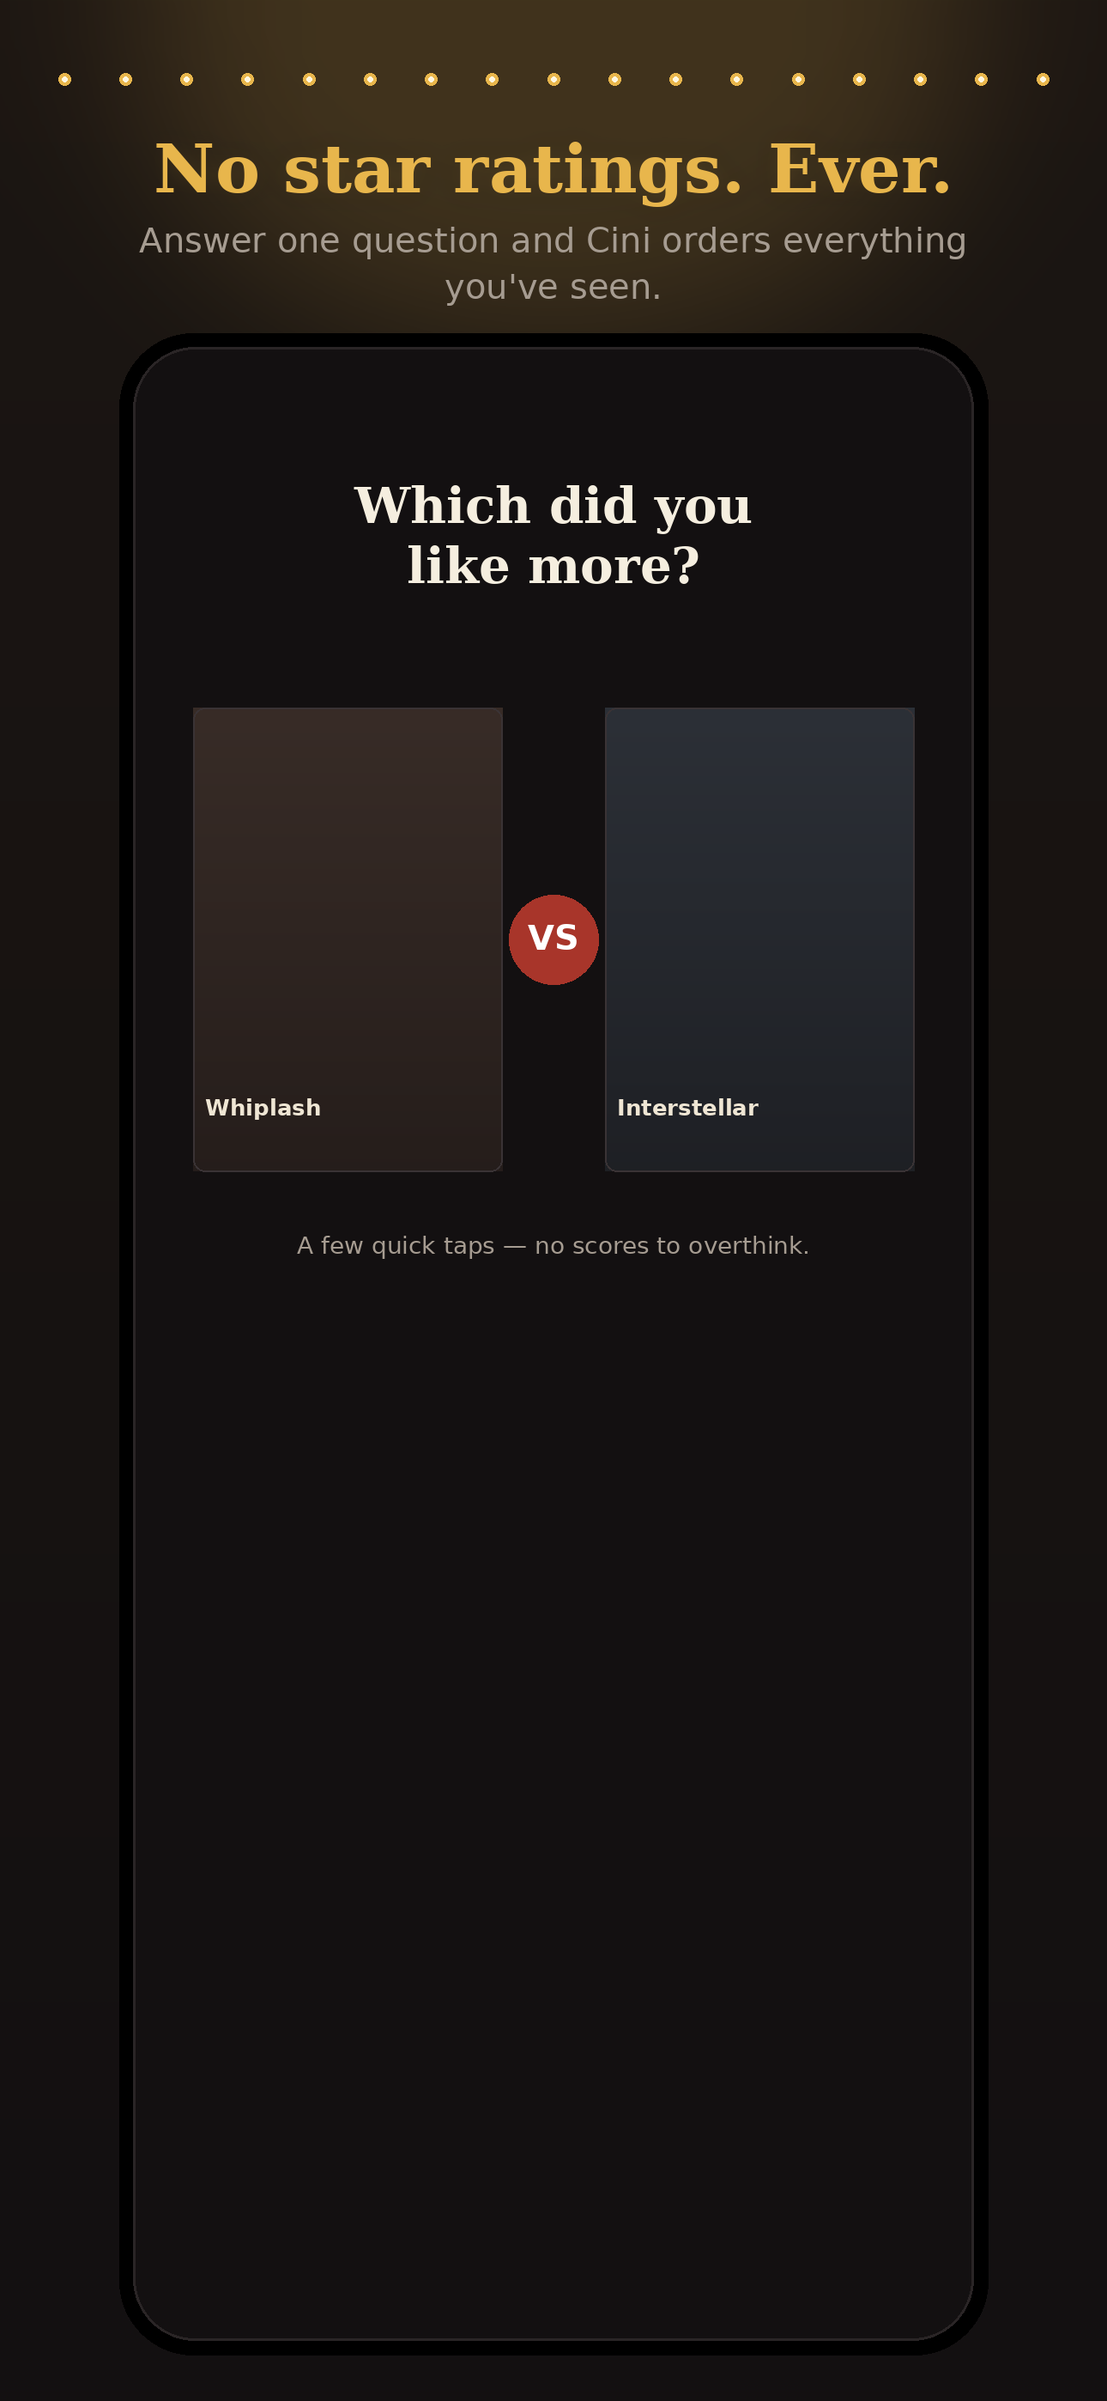
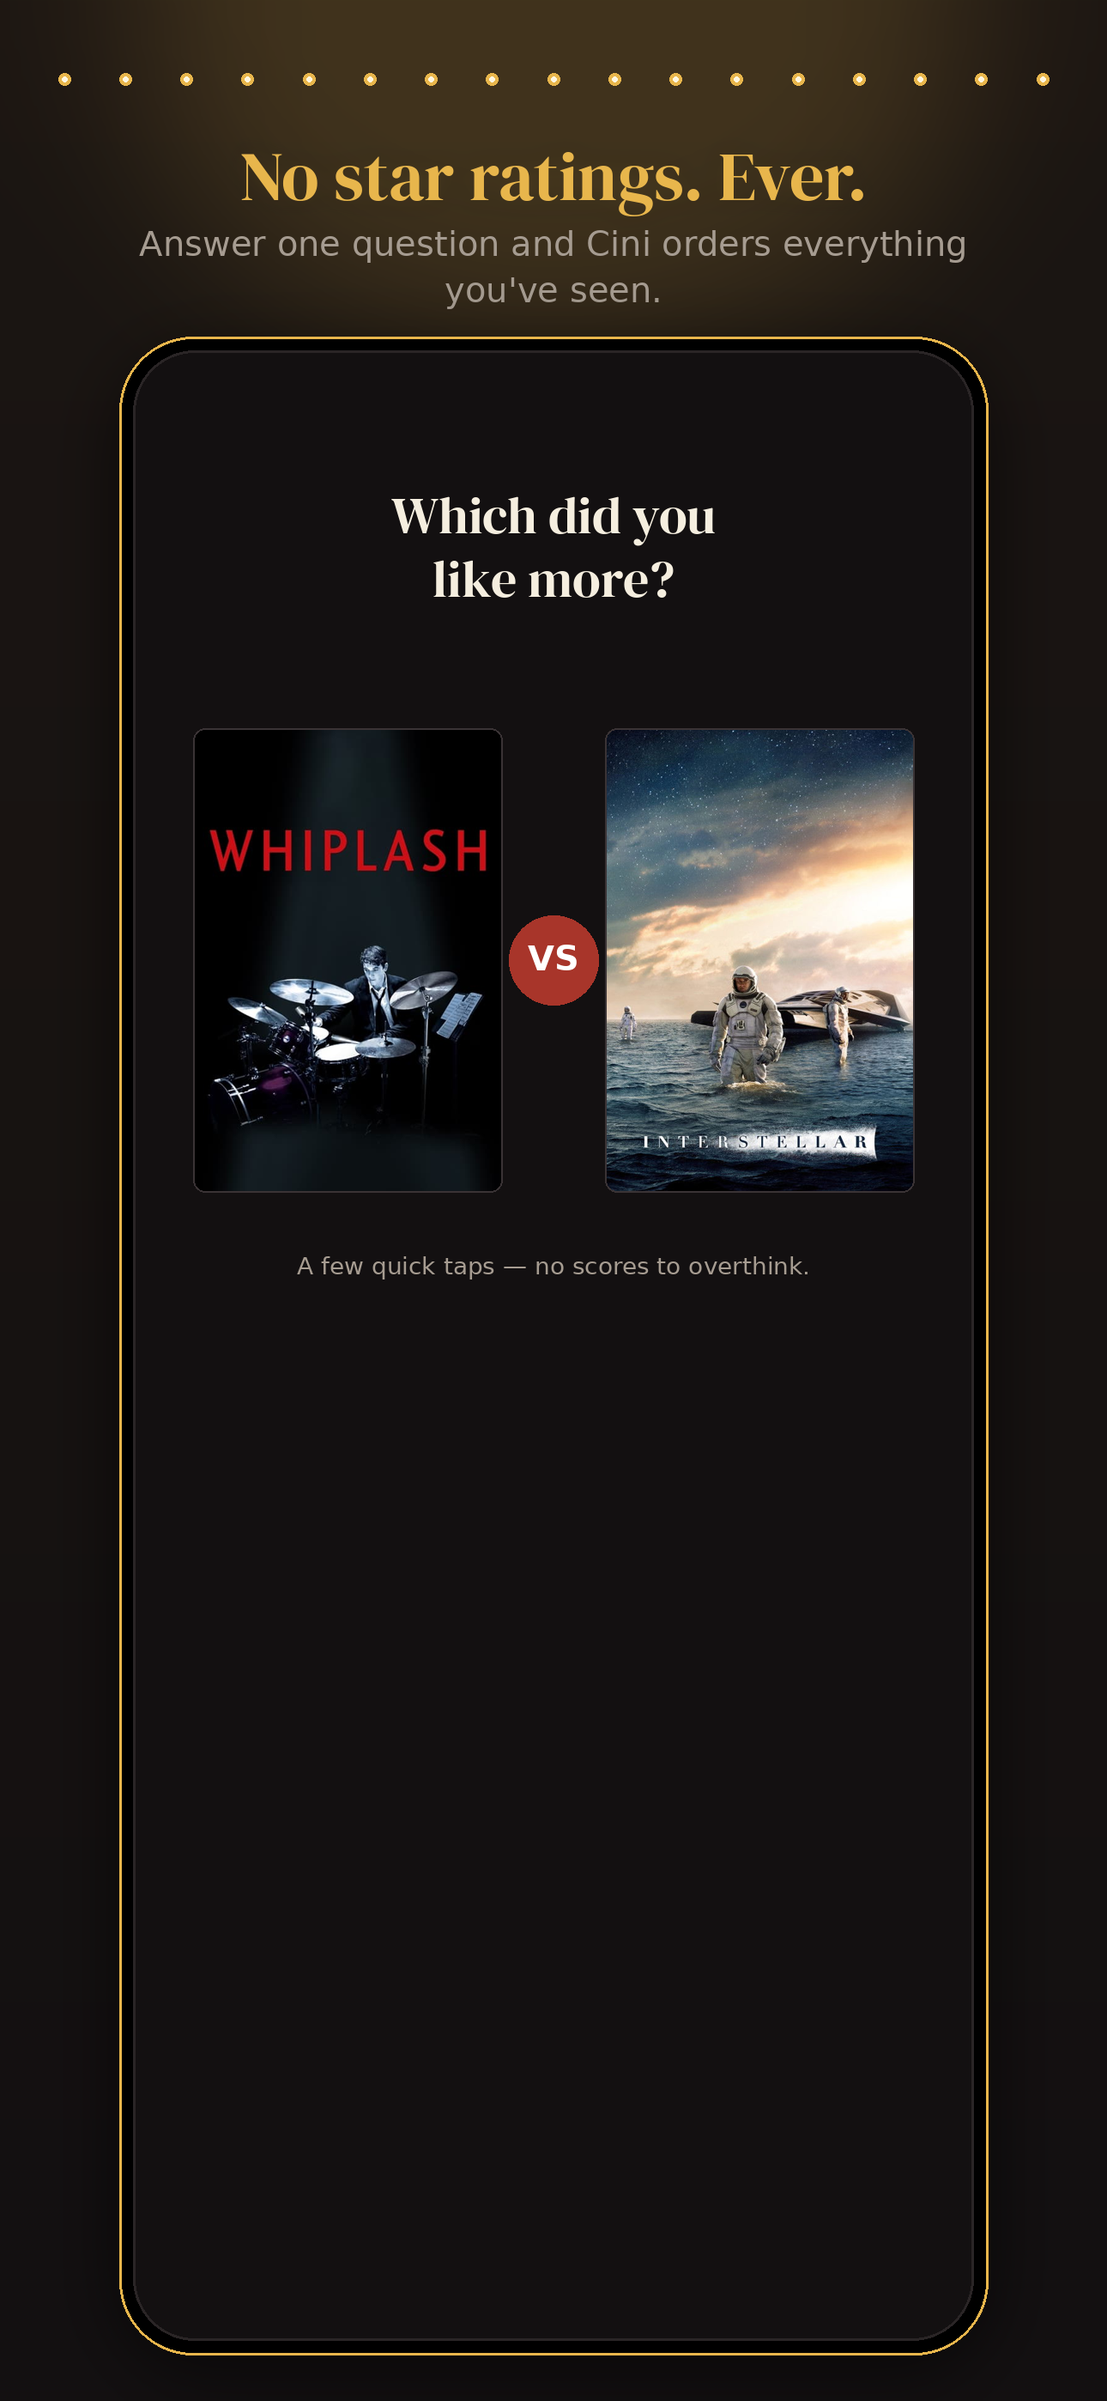
App Store screenshots with real posters/fonts; rank-result + marketing polish
- App Store screenshots: real TMDB posters + the actual brand faces (Limelight
  wordmark, DM Serif Display headlines), marquee styling, phone drop shadow.
- Rank-result ticket: center the card so the Share/Done buttons no longer
  collide with the tab bar; Done is now an outlined secondary (not a second
  filled button).
- Marketing site hero: real movie posters instead of gradient blanks.

diff --git a/index.html b/index.html
@@ -62,9 +62,9 @@
         <div class="compare">
           <p class="compare-q">Which did you like more?</p>
           <div class="compare-row">
-            <div class="poster" style="--p1:#1F6F6B;--p2:#0E2A3A;"><span>Whiplash</span></div>
+            <div class="poster" style="background-image:url('https://image.tmdb.org/t/p/w342/7fn624j5lj3xTme2SgiLCeuedmO.jpg');background-size:cover;background-position:center;"></div>
             <div class="vs">vs</div>
-            <div class="poster" style="--p1:#A8352A;--p2:#E8B64C;"><span>Interstellar</span></div>
+            <div class="poster" style="background-image:url('https://image.tmdb.org/t/p/w342/yQvGrMoipbRoddT0ZR8tPoR7NfX.jpg');background-size:cover;background-position:center;"></div>
           </div>
         </div>
 
@@ -72,19 +72,19 @@
         <div class="rank-list">
           <div class="rank-row">
             <span class="rk">1</span>
-            <div class="mini" style="--p1:#3A2A5A;--p2:#A8352A;"></div>
+            <div class="mini" style="background-image:url('https://image.tmdb.org/t/p/w185/7IiTTgloJzvGI1TAYymCfbfl3vT.jpg');background-size:cover;background-position:center;"></div>
             <div class="rt"><b>Parasite</b><i>2019 · Thriller</i></div>
             <span class="badge hi">9.4</span>
           </div>
           <div class="rank-row">
             <span class="rk">2</span>
-            <div class="mini" style="--p1:#1F6F6B;--p2:#0E2A3A;"></div>
+            <div class="mini" style="background-image:url('https://image.tmdb.org/t/p/w185/7fn624j5lj3xTme2SgiLCeuedmO.jpg');background-size:cover;background-position:center;"></div>
             <div class="rt"><b>Whiplash</b><i>2014 · Drama</i></div>
             <span class="badge hi">8.8</span>
           </div>
           <div class="rank-row">
             <span class="rk">3</span>
-            <div class="mini" style="--p1:#A8352A;--p2:#E8B64C;"></div>
+            <div class="mini" style="background-image:url('https://image.tmdb.org/t/p/w185/yQvGrMoipbRoddT0ZR8tPoR7NfX.jpg');background-size:cover;background-position:center;"></div>
             <div class="rt"><b>Interstellar</b><i>2014 · Sci-Fi</i></div>
             <span class="badge mid">7.1</span>
           </div>

diff --git a/Cini/Features/LogFlow/LogFlowView.swift b/Cini/Features/LogFlow/LogFlowView.swift
@@ -117,7 +117,9 @@ struct LogFlowView: View {
                     withAnimation(.snappy) {
                         if newPhase == .enrich { proxy.scrollTo("enrich", anchor: .bottom) }
                         if newPhase == .comparing { proxy.scrollTo("compare", anchor: .bottom) }
-                        if newPhase == .result { proxy.scrollTo("result", anchor: .bottom) }
+                        // Center it — anchoring .bottom shoved the Share/Done
+                        // buttons down onto the (still-visible) tab bar.
+                        if newPhase == .result { proxy.scrollTo("result", anchor: .center) }
                     }
                 }
             }
@@ -560,9 +562,12 @@ struct LogFlowView: View {
                         }
                         .buttonStyle(.plain)
                     }
-                    PillButton(title: "Done") { dismiss() }
+                    // Outlined so it's a clear secondary to the gold Share —
+                    // not two competing filled buttons.
+                    PillButton(title: "Done", style: .outlined) { dismiss() }
                 }
                 .frame(maxWidth: .infinity)
+                .padding(.bottom, 24)
                 .transition(.opacity)
             }
         }

diff --git a/docs/appstore/generate.py b/docs/appstore/generate.py
@@ -1,21 +1,61 @@
 #!/usr/bin/env python3
 """Branded App Store screenshots (6.7" = 1290x2796) matching Cini's marquee
-icon: glowing marquee-gold on house-lights-down black, marquee-bulb trim,
-serif wordmark. Marketing frames = headline + on-brand phone mockup."""
+icon: glowing marquee-gold on house-lights-down black, marquee-bulb trim, the
+REAL brand faces (Limelight wordmark + DM Serif Display headlines), and REAL
+movie posters fetched from TMDB. Marketing frames = headline + phone mockup."""
 from PIL import Image, ImageDraw, ImageFont, ImageFilter
+import os, json, urllib.request, urllib.parse
 
 W, H = 1290, 2796
 BG="#131011"; BG2="#1b1614"; SURF="#1D1719"; SURF2="#281F20"; FILL="#2a2526"
 INK="#F5EEDF"; GRAY="#A69C91"; MARQUEE="#E8B64C"; VELVET="#A8352A"; GOLD="#D9A93C"
 GREEN="#2FBF71"; LOVE="#53B17C"; FINE="#F4C95C"; DIS="#EE9E9E"
-SERIF="/usr/share/fonts/truetype/dejavu/DejaVuSerif-Bold.ttf"
-SANS="/usr/share/fonts/truetype/dejavu/DejaVuSans.ttf"
-SANSB="/usr/share/fonts/truetype/dejavu/DejaVuSans-Bold.ttf"
+
+ROOT = os.path.join(os.path.dirname(__file__), "..", "..")
+RES = os.path.join(ROOT, "Cini", "Resources")
+DISPLAY = os.path.join(RES, "Limelight-Regular.ttf")        # marquee wordmark
+SERIF   = os.path.join(RES, "DMSerifDisplay-Regular.ttf")   # editorial headlines
+SANS  = "/usr/share/fonts/truetype/dejavu/DejaVuSans.ttf"
+SANSB = "/usr/share/fonts/truetype/dejavu/DejaVuSans-Bold.ttf"
+def disp(p): return ImageFont.truetype(DISPLAY, p)
 def sf(p): return ImageFont.truetype(SERIF, p)
 def sa(p): return ImageFont.truetype(SANS, p)
 def sb(p): return ImageFont.truetype(SANSB, p)
 
-def ctext(d, cx, y, t, f, fill, glow=None):
+OUT = os.path.join(ROOT, "docs", "appstore")
+
+# ---- Real posters from TMDB (the app's own image source) -------------------
+def _tmdb_key():
+    with open(os.path.join(RES, "Secrets.xcconfig")) as f:
+        for line in f:
+            if line.strip().startswith("TMDB_API_KEY"):
+                return line.split("=", 1)[1].strip()
+    return ""
+KEY = _tmdb_key()
+CACHE = "/tmp/cini_posters"; os.makedirs(CACHE, exist_ok=True)
+_pc = {}
+def poster_img(query, year=None):
+    if query in _pc: return _pc[query]
+    try:
+        u = f"https://api.themoviedb.org/3/search/movie?api_key={KEY}&query={urllib.parse.quote(query)}"
+        if year: u += f"&year={year}"
+        data = json.load(urllib.request.urlopen(u, timeout=25))
+        path = (data.get("results") or [{}])[0].get("poster_path")
+        if not path: _pc[query] = None; return None
+        fp = os.path.join(CACHE, path.lstrip("/"))
+        if not os.path.exists(fp):
+            urllib.request.urlretrieve(f"https://image.tmdb.org/t/p/w500{path}", fp)
+        im = Image.open(fp).convert("RGB"); _pc[query] = im; return im
+    except Exception as e:
+        print("  poster miss:", query, e); _pc[query] = None; return None
+
+def ctext(d, cx, y, t, f, fill, glow=None, track=0):
+    if track:
+        total = sum(d.textlength(ch, font=f) + track for ch in t) - track
+        x = cx - total/2
+        for ch in t:
+            d.text((x, y), ch, font=f, fill=fill); x += d.textlength(ch, font=f) + track
+        return f.size
     w = d.textlength(t, font=f)
     if glow:
         gl = Image.new("RGBA", (int(w)+120, f.size+120), (0,0,0,0))
@@ -37,12 +77,10 @@ def wrap(d, t, f, maxw):
 def bg():
     img = Image.new("RGB",(W,H),BG)
     d = ImageDraw.Draw(img)
-    # warm vertical wash
     for y in range(H):
         t=y/H
         r=int(0x13+ (0x24-0x13)*(1-t)*0.5); g=int(0x10+(0x1c-0x10)*(1-t)*0.5); b=int(0x11+(0x14-0x11)*(1-t)*0.5)
         d.line([(0,y),(W,y)], fill=(r,g,b))
-    # top radial marquee glow
     glow = Image.new("RGBA",(W,H),(0,0,0,0))
     gd=ImageDraw.Draw(glow)
     gd.ellipse([W/2-560, -380, W/2+560, 480], fill=(232,182,76,46))
@@ -60,22 +98,26 @@ def bulbs(d, y, n=17):
 def caption(d, headline, sub, hl_color=MARQUEE):
     y=150
     bulbs(d, 92)
-    for ln in wrap(d, headline, sf(78), W-150):
-        ctext(d, W/2, y, ln, sf(78), hl_color, glow=(232,182,76,70)); y+=92
-    y+=14
+    for ln in wrap(d, headline, sf(80), W-150):
+        ctext(d, W/2, y, ln, sf(80), hl_color, glow=(232,182,76,70)); y+=94
+    y+=16
     for ln in wrap(d, sub, sa(40), W-220):
         ctext(d, W/2, y, ln, sa(40), GRAY); y+=54
     return y
 
+SCREEN = None  # set by phone(); poster() pastes onto this
 def phone(top, draw_screen):
-    """Rounded phone with bezel; draw_screen(d, x0,y0,w,h) paints the screen."""
+    global SCREEN
     pw, ph = 980, 2796-top-70
     x0=(W-pw)//2; y0=top
+    sh=Image.new("RGBA",(W,H),(0,0,0,0))
+    ImageDraw.Draw(sh).rounded_rectangle([x0-16,y0+10,x0+pw+16,y0+ph+30], radius=92, fill=(0,0,0,150))
+    sh=sh.filter(ImageFilter.GaussianBlur(40))
+    BASE.paste(Image.alpha_composite(BASE.convert("RGBA"),sh).convert("RGB"),(0,0))
     d=ImageDraw.Draw(BASE)
-    # bezel
     d.rounded_rectangle([x0-16,y0-16,x0+pw+16,y0+ph+16], radius=86, fill="#000000")
-    # screen
-    screen=Image.new("RGB",(pw,ph),BG)
+    d.rounded_rectangle([x0-16,y0-16,x0+pw+16,y0+ph+16], radius=86, outline=MARQUEE, width=3)
+    screen=Image.new("RGB",(pw,ph),BG); SCREEN=screen
     sd=ImageDraw.Draw(screen)
     draw_screen(sd, pw, ph)
     mask=Image.new("L",(pw,ph),0)
@@ -89,7 +131,20 @@ def score_badge(d, cx, cy, val, r=44, color=None):
     f=sb(int(r*0.8)); t=f"{val:.1f}"; w=d.textlength(t,font=f)
     d.text((cx-w/2, cy-r*0.55), t, font=f, fill=color)
 
-def poster(d, x, y, w, h, title, tone=0):
+def poster(d, x, y, w, h, title="", tone=0, query=None, year=None):
+    """Real TMDB poster (cover-fit + rounded), or a tasteful gradient fallback."""
+    im = poster_img(query or title, year) if (query or title) else None
+    if im is not None and SCREEN is not None:
+        sr = im.width/im.height; dr = w/h
+        if sr > dr: nh=h; nw=int(h*sr)
+        else: nw=w; nh=int(w/sr)
+        im2 = im.resize((max(nw,1), max(nh,1)))
+        l=(nw-w)//2; t=(nh-h)//2
+        im2 = im2.crop((l,t,l+w,t+h))
+        mask=Image.new("L",(w,h),0); ImageDraw.Draw(mask).rounded_rectangle([0,0,w-1,h-1],radius=14,fill=255)
+        SCREEN.paste(im2,(x,y),mask)
+        d.rounded_rectangle([x,y,x+w,y+h], radius=14, outline="#3a3335", width=2)
+        return
     cols=[(40,30,34),(34,40,46),(46,36,30),(30,42,38),(44,40,30),(38,32,44)]
     c=cols[tone%len(cols)]
     for i in range(h):
@@ -101,97 +156,89 @@ def poster(d, x, y, w, h, title, tone=0):
 
 SHOTS=[]
 
-# 1 — HERO
 def s_hero(d, pw, ph):
     cx=pw//2
-    # marquee border echo
     d.rounded_rectangle([60,150,pw-60,ph-150], radius=40, outline=MARQUEE, width=4)
     for i in range(12):
         x=120+i*((pw-240)/11); d.ellipse([x-6,176,x+6,188],fill=MARQUEE)
         d.ellipse([x-6,ph-188,x+6,ph-176],fill=MARQUEE)
-    f=sf(150); t="cini"; w=d.textlength(t,font=f)
+    f=disp(150); t="CINI"; w=d.textlength(t,font=f)
     d.text((cx-w/2, ph/2-300), t, font=f, fill=MARQUEE)
-    ctext(d, cx, ph/2-110, "EVERY FILM · RANKED", sb(34), GRAY)
+    ctext(d, cx, ph/2-90, "EVERY FILM · RANKED", sb(32), GRAY, track=10)
     for k,(c,lbl) in enumerate([(LOVE,"Liked it"),(FINE,"It was fine"),(DIS,"Didn't")]):
         bx=cx-300+k*300
         d.ellipse([bx-58,ph/2+80,bx+58,ph/2+196], fill=c)
         ww=d.textlength(lbl,font=sa(28)); d.text((bx-ww/2, ph/2+220), lbl, font=sa(28), fill=GRAY)
-SHOTS.append(("01_hero", "Every film, ranked.", "No star ratings — just your taste, in perfect order.", s_hero, INK))
+SHOTS.append(("01-hero", "Every film, ranked.", "No star ratings — just your taste, in perfect order.", s_hero, INK))
 
-# 2 — COMPARISON
 def s_compare(d, pw, ph):
-    ctext(d, pw//2, 150, "Which did you", sf(58), INK)
-    ctext(d, pw//2, 220, "like more?", sf(58), INK)
-    pwid=360; px=70; py=420
-    poster(d, px, py, pwid, pwid*3//2, "Whiplash", 2)
-    poster(d, pw-px-pwid, py, pwid, pwid*3//2, "Interstellar", 1)
-    # VS
+    ctext(d, pw//2, 150, "Which did you", sf(60), INK)
+    ctext(d, pw//2, 224, "like more?", sf(60), INK)
+    pwid=360; px=70; py=440
+    poster(d, px, py, pwid, pwid*3//2, query="Whiplash", year=2014)
+    poster(d, pw-px-pwid, py, pwid, pwid*3//2, query="Interstellar", year=2014)
     d.ellipse([pw//2-52, py+pwid*3//4-52, pw//2+52, py+pwid*3//4+52], fill=VELVET)
     vt="VS"; f=sb(40); w=d.textlength(vt,font=f); d.text((pw//2-w/2, py+pwid*3//4-26), vt, font=f, fill="#fff")
     ctext(d, pw//2, py+pwid*3//2+70, "A few quick taps — no scores to overthink.", sa(28), GRAY)
-SHOTS.append(("02_compare", "No star ratings. Ever.", "Answer one question and Cini orders everything you've seen.", s_compare, MARQUEE))
+SHOTS.append(("02-no-star-ratings", "No star ratings. Ever.", "Answer one question and Cini orders everything you've seen.", s_compare, MARQUEE))
 
-# 3 — RANKED LIST
 def s_list(d, pw, ph):
-    ctext(d, pw//2, 150, "Your ranked list", sf(54), INK)
-    titles=[("Past Lives",9.4),("The Zone of Interest",8.8),("Oppenheimer",8.1),
-            ("Poor Things",7.6),("Killers of the Flower Moon",7.0),("Saltburn",6.2),("Wonka",5.4)]
+    ctext(d, pw//2, 150, "Your ranked list", sf(56), INK)
+    titles=[("Past Lives",2023,9.4),("The Zone of Interest",2023,8.8),("Oppenheimer",2023,8.1),
+            ("Poor Things",2023,7.6),("Killers of the Flower Moon",2023,7.0),
+            ("Saltburn",2023,6.2),("Wonka",2023,5.4)]
     y=300
-    for i,(t,sc) in enumerate(titles):
+    for i,(t,yr,sc) in enumerate(titles):
         d.rounded_rectangle([60,y,pw-60,y+150], radius=20, fill=SURF)
         d.text((92,y+54), f"{i+1}", font=sb(40), fill=GRAY)
-        poster(d, 165, y+18, 86, 114, "", i)
-        for j,ln in enumerate(wrap(d, t, sb(34), pw-165-300)):
-            d.text((280, y+34+j*40), ln, font=sb(34), fill=INK)
+        poster(d, 165, y+18, 86, 114, query=t, year=yr)
+        for j,ln in enumerate(wrap(d, t, sf(36), pw-165-300)):
+            d.text((280, y+30+j*42), ln, font=sf(36), fill=INK)
         score_badge(d, pw-130, y+75, sc)
         y+=172
-SHOTS.append(("03_list", "A list that's truly yours", "Every title scored out of 10 — by you, not strangers.", s_list, MARQUEE))
+SHOTS.append(("03-ranked-list", "A list that's truly yours", "Every title scored out of 10 — by you, not strangers.", s_list, MARQUEE))
 
-# 4 — FEED / FRIENDS
 def s_feed(d, pw, ph):
-    ctext(d, pw//2, 150, "Better with friends", sf(54), INK)
-    cards=[("MAYA","ranked","Dune: Part Two",8.7,1),("LEO","wants to watch","The Substance",None,3),
-           ("PRIYA","ranked","Anora",9.1,4)]
+    ctext(d, pw//2, 150, "Better with friends", sf(56), INK)
+    cards=[("MAYA","ranked","Dune: Part Two",2024,8.7),("LEO","wants to watch","The Substance",2024,None),
+           ("PRIYA","ranked","Anora",2024,9.1)]
     y=300
-    for name,act,title,sc,tone in cards:
+    for name,act,title,yr,sc in cards:
         d.rounded_rectangle([60,y,pw-60,y+330], radius=22, fill=SURF)
-        d.ellipse([92,y+34,170,y+112], fill=SURF2)
-        d.text((104,y+52), name[0], font=sb(40), fill=MARQUEE)
-        d.text((192,y+44), f"@{name.lower()}", font=sb(30), fill=INK)
-        d.text((192,y+90), f"{act}", font=sa(26), fill=GRAY)
-        for j,ln in enumerate(wrap(d, title, sf(40), pw-360)):
-            d.text((192, y+140+j*46), ln, font=sf(40), fill=INK)
-        if sc is not None: score_badge(d, pw-150, y+90, sc, r=48)
-        # actions
-        for k,ic in enumerate(["♥","💬","↗"]):
-            d.text((100+k*70, y+250), ic, font=sa(34), fill=GRAY)
+        poster(d, 92, y+34, 130, 174, query=title, year=yr)
+        d.text((250,y+44), f"@{name.lower()}", font=sb(30), fill=INK)
+        d.text((250,y+90), f"{act}", font=sa(26), fill=GRAY)
+        for j,ln in enumerate(wrap(d, title, sf(40), pw-460)):
+            d.text((250, y+140+j*46), ln, font=sf(40), fill=INK)
+        if sc is not None: score_badge(d, pw-150, y+96, sc, r=48)
+        for k,ic in enumerate(["like","reply","share"]):
+            d.text((250+k*150, y+256), ic, font=sa(26), fill=GRAY)
         y+=355
-SHOTS.append(("04_feed", "Know before you commit", "See what friends scored before you spend the night on it.", s_feed, MARQUEE))
+SHOTS.append(("04-friends", "Know before you commit", "See what friends scored before you spend the night on it.", s_feed, MARQUEE))
 
-# 5 — REC SCORES / WANT TO WATCH
 def s_recs(d, pw, ph):
-    ctext(d, pw//2, 150, "Want to Watch", sf(54), INK)
-    ctext(d, pw//2, 226, "sorted by what you'll love", sa(32), GRAY)
-    titles=[("Sinners",9.2),("The Brutalist",8.9),("Conclave",8.3),("A Real Pain",7.8),
-            ("Nosferatu",7.1),("Wicked",6.4)]
-    y=330
-    for t,sc in titles:
+    ctext(d, pw//2, 150, "Want to Watch", sf(56), INK)
+    ctext(d, pw//2, 230, "sorted by what you'll love", sa(32), GRAY)
+    titles=[("Sinners",2025,9.2),("The Brutalist",2024,8.9),("Conclave",2024,8.3),
+            ("A Real Pain",2024,7.8),("Nosferatu",2024,7.1),("Wicked",2024,6.4)]
+    y=340
+    for t,yr,sc in titles:
         d.rounded_rectangle([60,y,pw-60,y+150], radius=20, fill=SURF)
-        poster(d, 80, y+18, 86, 114, "", hash(t)%6)
-        for j,ln in enumerate(wrap(d, t, sb(34), pw-200-320)):
-            d.text((196, y+34+j*40), ln, font=sb(34), fill=INK)
-        # rec score pill
+        poster(d, 80, y+18, 86, 114, query=t, year=yr)
+        for j,ln in enumerate(wrap(d, t, sf(36), pw-200-320)):
+            d.text((196, y+30+j*42), ln, font=sf(36), fill=INK)
         d.rounded_rectangle([pw-300, y+48, pw-92, y+108], radius=30, fill=SURF2)
         d.text((pw-282, y+60), "Rec", font=sa(26), fill=GRAY)
         score_badge(d, pw-150, y+78, sc, r=40)
         y+=172
-SHOTS.append(("05_recs", "Recs that match your taste", "Rec Scores predict how much YOU'll like what you haven't seen.", s_recs, MARQUEE))
+SHOTS.append(("05-rec-scores", "Recs that match your taste", "Rec Scores predict how much YOU'll like what you haven't seen.", s_recs, MARQUEE))
 
+os.makedirs(OUT, exist_ok=True)
 for name, headline, sub, fn, hl in SHOTS:
     BASE = bg()
     d = ImageDraw.Draw(BASE)
     ph_top = caption(d, headline, sub, hl) + 40
     phone(int(ph_top), fn)
-    BASE.save(f"/tmp/appstore_{name}.png")
+    BASE.save(os.path.join(OUT, f"{name}.png"))
     print("saved", name)
 print("DONE")
